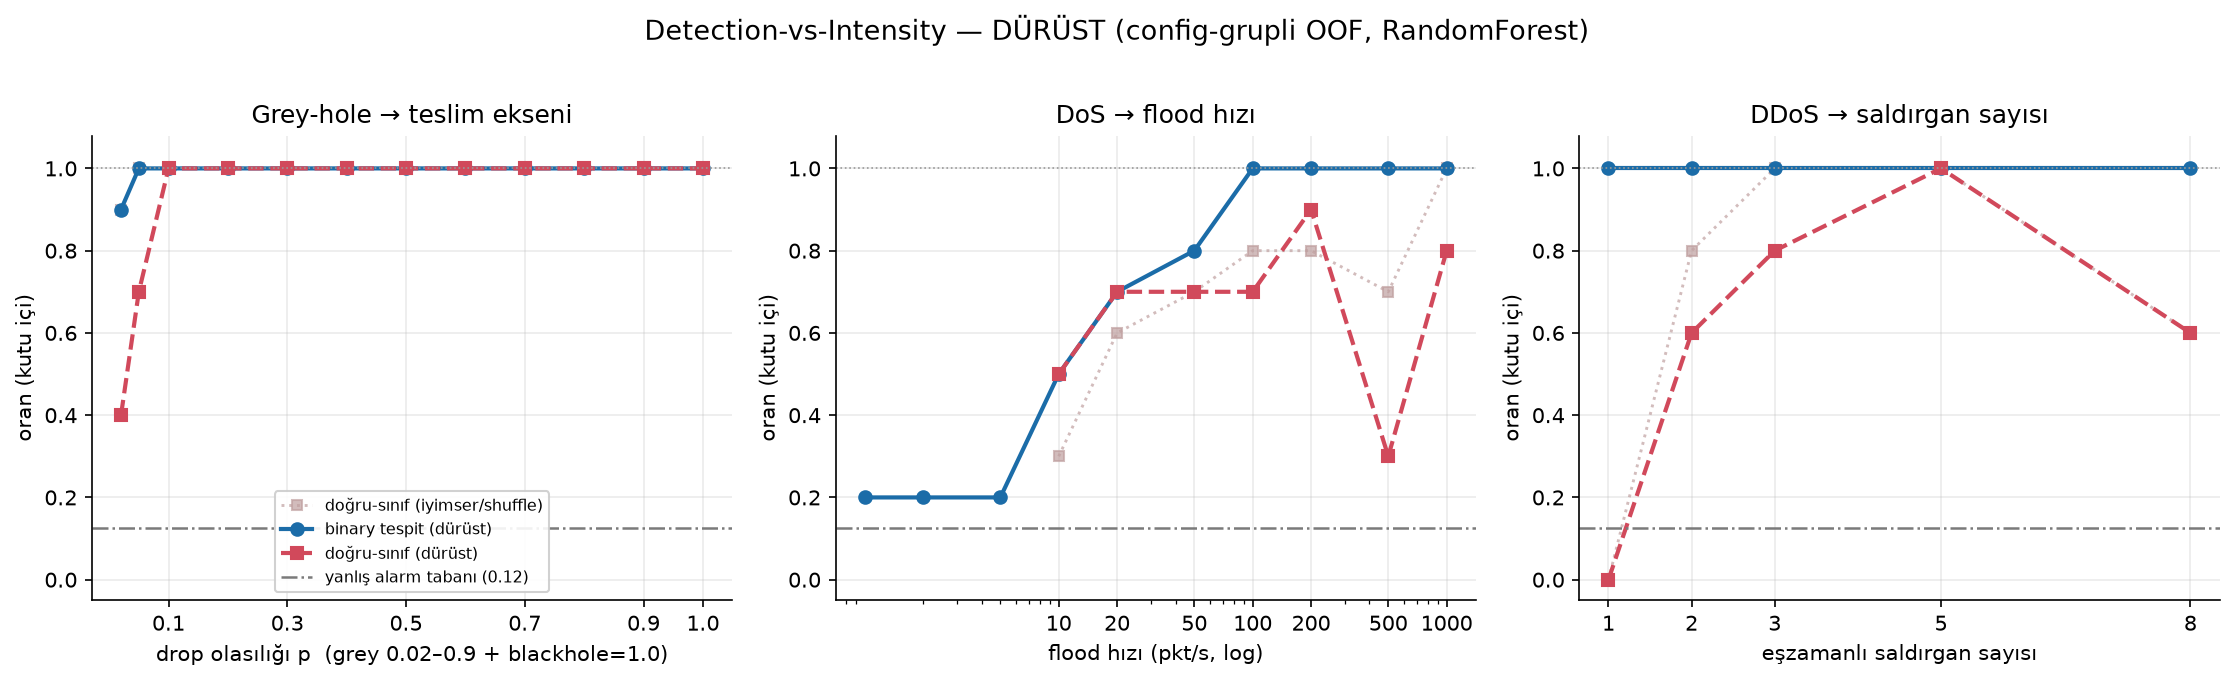
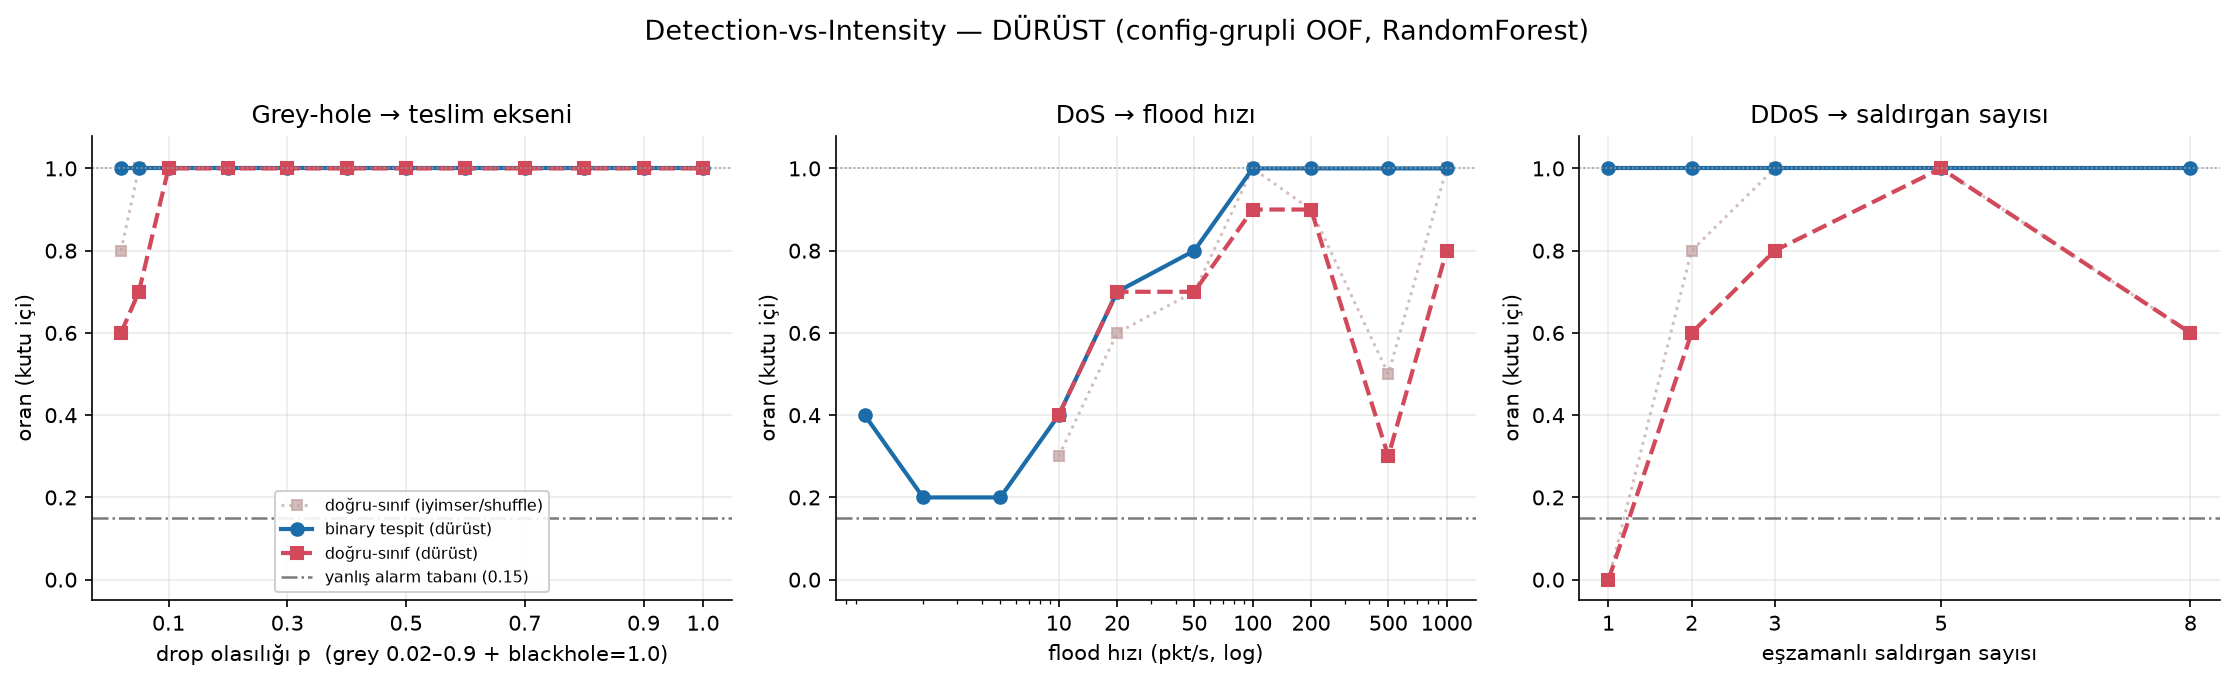
Define the detector's input schema once, and check it against the release
The feature list was copy-pasted into every notebook and the copies drifted along
generational lines: notebooks 02-07 predate victim_startup_lag_ms and pass 12 inputs,
08-10 postdate it and pass 13, and the released model takes 13. The model was never
in doubt -- honest CV is 0.786 one way and 0.788 the other -- but each reported
number silently belonged to one generation, and the per-class table in the report was
assembled from both, which is how it acquired a ddos row whose F1 no precision and
recall can produce.

detector_schema.py holds the list and builds the model input. It does not treat itself
as authoritative: check_against_release() compares against the released manifest and
raises on any mismatch, including order, since scikit-learn matches columns positionally
and a reordered list would predict nonsense without complaining.

Notebook 05 now imports it and re-runs clean at 13 inputs. What that changes:

  * the binary confusion becomes TN=34 FP=6 FN=11 TP=204 with attack-F1 0.960, which
    is what the released model gives; the reported 35/5/0.962 was the 12-input run.
  * the false-alarm rate reads 0.150 throughout, resolving the report's disagreement
    with itself between 0.125 and 0.150.
  * every per-class row now satisfies F1 = 2PR/(P+R), because they come from one run.
  * honest CV 0.788 +/- 0.094 against shuffled 0.828, so splitting by configuration
    costs about 0.04 -- not the 0.994 -> 0.786 the report attributes to it.
[…]

diff --git a/my-work/detector_schema.py b/my-work/detector_schema.py
@@ -1,0 +1,88 @@
+"""The detector's input schema, defined once.
+
+Why this file exists: the feature list used to be copy-pasted into every notebook, and
+the copies drifted. Notebooks 02-07 were written before victim_startup_lag_ms existed and
+carry an 11-name list (12 model inputs); notebooks 08-10 were written after and carry a
+12-name list (13 inputs); the released model takes 13. Nothing was wrong with the model --
+measured either way the honest CV lands at 0.786 vs 0.787 -- but every reported number
+silently belonged to one generation or the other, and a per-class table ended up assembled
+from both, with an F1 column that no single run could produce.
+
+So the list lives here and is imported. Drift now requires editing this file, which is a
+decision rather than an accident.
+
+The released manifest is treated as the authority, not this file: check_against_release()
+compares the two and raises on any mismatch. A schema that agrees with itself proves
+nothing -- what matters is that the notebooks describe the model that was actually shipped.
+
+Usage from a notebook (the my-work/ parent has to be importable):
+
+    import sys; sys.path.insert(0, "..")          # or the repo-relative equivalent
+    from detector_schema import FEATURES, build_X, check_against_release
+    check_against_release()                        # fails loudly on drift
+    X = build_X(df)
+"""
+
+import json
+from pathlib import Path
+
+HERE = Path(__file__).resolve().parent
+RELEASE = HERE / "day9-20072026-release" / "release"
+
+# telemetry_throughput_mbps is deliberately absent: it does not separate the classes
+# (ANOVA p=0.79). It was once excluded as "zero variance", which was true of the older
+# noiseless dataset and stopped being true once the baseline gained noise (CV 0.15) --
+# the exclusion survived, the reason for it did not.
+FEATURES = ["n_flows", "total_throughput_mbps", "max_flow_throughput_mbps",
+            "max_flow_txpackets", "flow_concentration", "delivery_ratio",
+            "overall_loss_ratio", "monitor_owd_ms", "monitor_pdv_ms",
+            "mean_owd_ms", "mean_pdv_ms", "victim_startup_lag_ms"]
+
+# What the model actually receives: FEATURES plus the missingness flag build_X derives.
+MODEL_INPUTS = FEATURES + ["monitor_missing"]
+
+
+def build_X(frame, allow_missing=()):
+    """The model's input matrix, built the one way it is built anywhere.
+
+    A fully denied victim path has no delay to report, so its timing columns are NaN. The
+    missingness is itself signal ("the path was fully denied"), so it is flagged in a
+    column and then imputed to 0, rather than the row being dropped.
+
+    allow_missing names columns the caller knows are absent from this frame, which are
+    then treated as entirely missing (NaN -> 0). It exists for one case: the upstream
+    study's published FlowMonitor data, which predates some of our features. Passing a
+    name here is a claim that the feature is UNMEASURABLE in that source, not a way to
+    quiet a typo -- so anything not named is still required, and its absence still raises.
+    """
+    missing = [c for c in FEATURES if c not in frame.columns]
+    unexpected = [c for c in missing if c not in allow_missing]
+    if unexpected:
+        raise KeyError(f"frame is missing required feature(s): {unexpected}. "
+                       f"If they are genuinely unmeasurable in this source, name them in "
+                       f"allow_missing; otherwise regenerate the frame.")
+    X = frame.reindex(columns=FEATURES).copy()
+    X["monitor_missing"] = frame["monitor_owd_ms"].isna().astype(int)
+    return X.fillna(0.0)
+
+
+def check_against_release(version="v1.1"):
+    """Raise unless this schema matches the released model's, in content and in order.
+
+    Order matters as much as content: scikit-learn matches training columns to prediction
+    columns positionally, so a reordered list loads without complaint and predicts
+    nonsense. Returns the manifest so callers can report which version they agree with.
+    """
+    path = RELEASE / f"MANIFEST_{version}.json"
+    if not path.exists():
+        raise FileNotFoundError(f"no released manifest at {path}; freeze a release first")
+    meta = json.loads(path.read_text())
+    shipped = meta["model"]["features"]
+    if shipped != MODEL_INPUTS:
+        raise ValueError(
+            f"schema does not match release {version}.\n"
+            f"  released: {shipped}\n"
+            f"  here    : {MODEL_INPUTS}\n"
+            f"Every number computed from this schema would describe a model that was "
+            f"never shipped. Reconcile before reporting anything.")
+    return meta